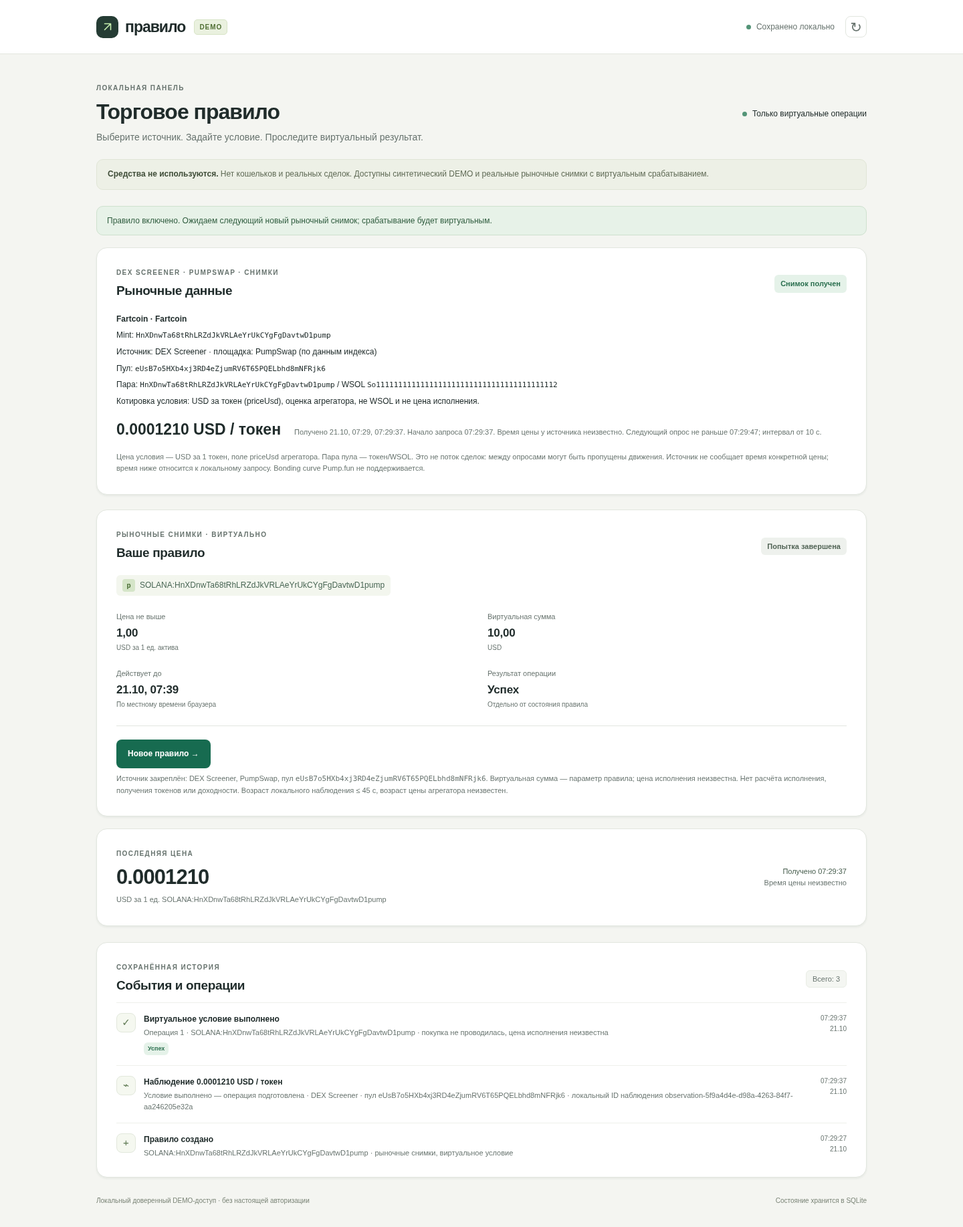
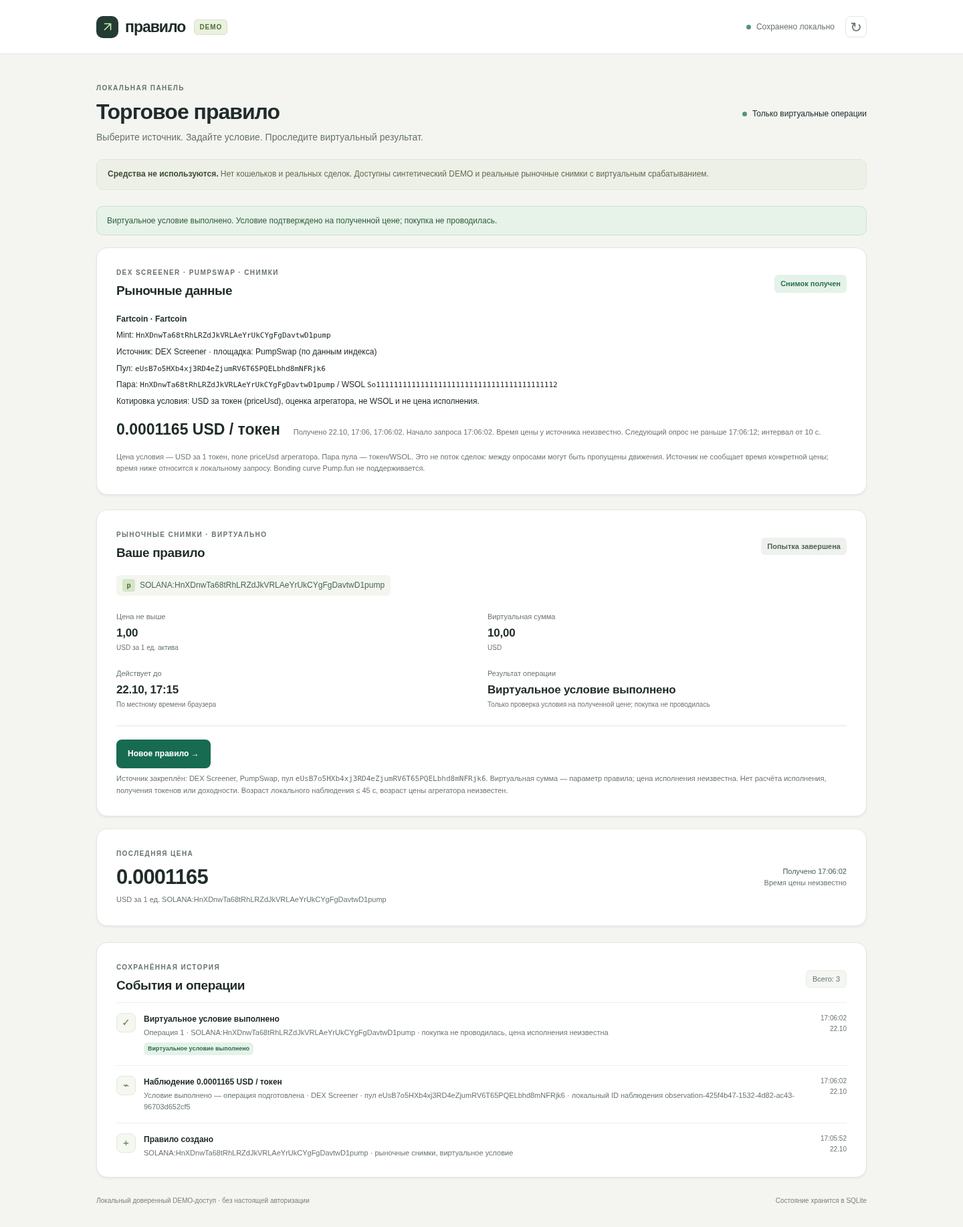
Keep market rule status consistent with virtual operation result

diff --git a/prototypes/rule-lifecycle/web/public/app.js b/prototypes/rule-lifecycle/web/public/app.js
@@ -9,7 +9,8 @@ const dispositions = { prepared: 'Условие выполнено — опер
   condition_not_met: 'Условие цены пока не выполнено', ignored_stale: 'Событие устарело и не использовано', ignored_future: 'Время события из будущего — исполнение запрещено',
   ignored_asset: 'Событие другого актива пропущено', ignored_incompatible_price: 'Размерность цены не совпадает с правилом', ignored_out_of_order: 'Более старая цена пропущена',
   ignored_history_recovery: 'История проверена; накопленный сигнал не исполняется', ignored_before_resolution: 'Цена возникла до решения владельца — сигнал пропущен' };
-let model, signature = '', busy = false, connected = false, creating = false, revision = 0;
+let model, signature = '', statusSignature = '', busy = false, connected = false, creating = false, revision = 0;
+let feedbackRuleId = null;
 let revokeTarget;
 const pendingKeys = new Map();
 const current = () => model?.rules.find(rule => rule.config.id === model.currentRuleId);
@@ -21,10 +22,32 @@ const formatFor = (rule, units) => {
 };
 const quoteFor = rule => isMarket(rule) ? 'USD' : quote;
 const terminal = rule => ['finished', 'expired', 'revoked'].includes(rule.state);
-const pill = status => `<span class="state-pill ${escape(status)}">${escape(labels[status] ?? status)}</span>`;
+const operationLabel = (rule, operation) => isMarket(rule) && operation.status === 'succeeded' ? 'Виртуальное условие выполнено' : labels[operation.status];
+const pill = (status, label = labels[status] ?? status) => `<span class="state-pill ${escape(status)}">${escape(label)}</span>`;
 const date = value => new Date(value).toLocaleString('ru-RU', { day: '2-digit', month: '2-digit', hour: '2-digit', minute: '2-digit' });
 const time = value => new Date(value).toLocaleTimeString('ru-RU', { hour: '2-digit', minute: '2-digit', second: '2-digit' });
-function feedback(text, kind = '') { $('feedback').textContent = text; $('feedback').className = `feedback ${kind}`; $('feedback').hidden = !text; }
+function feedback(text, kind = '') { feedbackRuleId = null; $('feedback').textContent = text; $('feedback').className = `feedback ${kind}`; $('feedback').hidden = !text; }
+function renderMarketRuleStatus() {
+  const rule = current();
+  if (!isMarket(rule) || creating) {
+    if (feedbackRuleId !== null) feedback('');
+    return false;
+  }
+  const operation = rule.operations.at(-1);
+  const result = operation?.status === 'succeeded' ? 'Виртуальное условие выполнено. Условие подтверждено на полученной цене; покупка не проводилась.'
+    : operation?.status === 'unknown' ? 'Исход виртуальной операции неизвестен. Повторная попытка заблокирована.'
+    : operation?.status === 'failed' ? 'Виртуальное срабатывание завершилось неудачей. Повторной попытки не будет.'
+    : operation?.status === 'submitted' ? 'Ожидаем результат виртуальной операции.'
+    : operation?.status === 'prepared' ? 'Условие выполнено; виртуальная операция подготовлена.' : '';
+  const state = rule.state === 'revoked' ? 'Правило окончательно отозвано.'
+    : rule.state === 'expired' ? 'Срок правила истёк.'
+    : rule.state === 'paused' ? 'Новые операции приостановлены.'
+    : rule.state === 'draft' ? 'Правило создано, но ещё не включено.'
+    : rule.state === 'active' && !result ? 'Правило включено. Ожидаем следующий новый рыночный снимок; срабатывание будет виртуальным.' : '';
+  feedback([state, result].filter(Boolean).join(' '), ['unknown', 'failed'].includes(operation?.status) ? 'warning' : '');
+  feedbackRuleId = rule.config.id;
+  return true;
+}
 function updateControls() {
   const rule = current();
   document.body.classList.toggle('busy', busy);
@@ -108,7 +131,7 @@ function renderRule(rule) {
     <div class="rule-grid"><div><p class="label">Цена не выше</p><p class="value">${money(config.condition.thresholdUnits)}<small>${quote} за 1 ед. актива</small></p></div>
     <div><p class="label">${marketRule ? 'Виртуальная сумма' : 'Сумма покупки'}</p><p class="value">${money(config.amountUnits)}<small>${quote}</small></p></div>
     <div><p class="label">Действует до</p><p class="value">${date(config.expiresAtMs)}<small>По местному времени браузера</small></p></div>
-    <div><p class="label">Результат операции</p><p class="value">${last ? escape(labels[last.status]) : 'Ещё нет операции'}<small>${last ? 'Отдельно от состояния правила' : 'Покупка пока не передавалась имитатору'}</small></p></div></div>
+    <div><p class="label">Результат операции</p><p class="value" id="operation-result">${last ? escape(operationLabel(rule, last)) : 'Ещё нет операции'}<small>${marketRule ? last?.status === 'succeeded' ? 'Только проверка условия на полученной цене; покупка не проводилась' : 'Отдельно от состояния правила; реальные сделки не выполняются' : last ? 'Отдельно от состояния правила' : 'Покупка пока не передавалась имитатору'}</small></p></div></div>
     ${notice}<div class="rule-actions">${buttons}</div>${marketRule ? `<p class="help">Источник закреплён: DEX Screener, PumpSwap, пул <code>${escape(config.market.pairAddress)}</code>. Виртуальная сумма — параметр правила; цена исполнения неизвестна. Нет расчёта исполнения, получения токенов или доходности. Возраст локального наблюдения ≤ 45 с, возраст цены агрегатора неизвестен.</p>` : `<details class="rule-detail"><summary>Ограничения имитации</summary><p>Общий расход ≤ ${money(config.limits.maxTotalSpendUnits)} ${quote}; комиссия ≤ ${money(config.limits.maxFeeUnits)} ${quote}; получение ≥ ${config.limits.minReceiveUnits} услов. ед. актива. Возраст события ≤ ${config.limits.maxEventAgeMs / 1000} с. Проверки локальные, не блокчейн.</p></details>`}`;
   const lastEvent = rule.events.filter(entry => entry.sourceRecord).at(-1);
   const observed = marketRule ? rule.events.filter(e => e.marketSnapshot).at(-1)?.marketSnapshot : null;
@@ -132,7 +155,7 @@ function renderJournal() {
       if (op.result?.receipt) description += ` · расход ${money(op.result.receipt.spentUnits)} ${quote}, получение ${op.result.receipt.receivedUnits} услов. ед.`;
       if (op.status === 'unknown') description += ' · повтор запрещён';
       rows.push({ at: op.updatedAtMs, rank: 2, icon: op.status === 'succeeded' ? '✓' : op.status === 'unknown' ? '?' : '→',
-        title: op.status === 'succeeded' ? marketRule ? 'Виртуальное условие выполнено' : 'Покупка имитирована' : `Операция: ${labels[op.status]}`, description: description + (marketRule ? ' · покупка не проводилась, цена исполнения неизвестна' : ''), status: op.status });
+        title: op.status === 'succeeded' ? marketRule ? 'Виртуальное условие выполнено' : 'Покупка имитирована' : `Операция: ${labels[op.status]}`, description: description + (marketRule ? ' · покупка не проводилась, цена исполнения неизвестна' : ''), status: op.status, statusLabel: operationLabel(rule, op) });
     }
     for (const entry of rule.decisions) rows.push({ at: entry.decidedAtMs, rank: 3, icon: '↻', title: entry.outcome === 'history_verified' ? 'История проверена владельцем DEMO'
       : entry.outcome === 'rule_revoked' ? 'Правило окончательно отозвано' : 'Решение по потоку сохранено',
@@ -140,7 +163,7 @@ function renderJournal() {
   }
   rows.sort((a, b) => b.at - a.at || b.rank - a.rank);
   $('journal-count').textContent = `Всего: ${rows.length}`;
-  if (rows.length) $('journal-list').innerHTML = rows.slice(0, 40).map(row => `<div class="log-row"><span class="log-icon" aria-hidden="true">${escape(row.icon)}</span><div><p class="log-title">${escape(row.title)}</p><p class="log-description">${escape(row.description)}</p>${row.status ? `<div class="log-meta">${pill(row.status)}</div>` : ''}</div><time class="log-time">${time(row.at)}<br>${date(row.at).split(',')[0]}</time></div>`).join('');
+  if (rows.length) $('journal-list').innerHTML = rows.slice(0, 40).map(row => `<div class="log-row"><span class="log-icon" aria-hidden="true">${escape(row.icon)}</span><div><p class="log-title">${escape(row.title)}</p><p class="log-description">${escape(row.description)}</p>${row.status ? `<div class="log-meta">${pill(row.status, row.statusLabel)}</div>` : ''}</div><time class="log-time">${time(row.at)}<br>${date(row.at).split(',')[0]}</time></div>`).join('');
   const archived = model.rules.filter(rule => rule.config.id !== model.currentRuleId);
   $('archive').hidden = !archived.length;
   $('archive-list').innerHTML = archived.map(rule => `<div class="archive-row"><span>${escape(rule.config.assetId)} · ${date(rule.createdAtMs)}</span>${pill(rule.state)}</div>`).join('');
@@ -156,6 +179,9 @@ function render(data, force = false) {
     $('cancel-create').hidden = !rule;
     renderRule(rule); renderJournal(); formMode(); renderMarket();
   }
+  const rule = current();
+  const nextStatus = JSON.stringify([data.currentRuleId, rule?.state, rule?.operations.map(operation => [operation.id, operation.status]), creating]);
+  if (nextStatus !== statusSignature) { statusSignature = nextStatus; renderMarketRuleStatus(); }
   updateControls();
 }
 async function load() {
@@ -167,7 +193,7 @@ async function load() {
     if (!busy && version === revision) {
       const restored = !connected && !!model;
       render(data);
-      if (restored) feedback('Соединение восстановлено. Показано сохранённое состояние.');
+      if (restored && !renderMarketRuleStatus()) feedback('Соединение восстановлено. Показано сохранённое состояние.');
     }
   } catch (error) {
     if (version === revision) { connected = false; updateControls(); feedback(error.message === 'Failed to fetch' ? 'Сервер недоступен. Показаны последние полученные данные; действия остановлены.' : error.message, 'error'); }
@@ -200,7 +226,8 @@ async function mutate(path, body, { form = null, message = '' } = {}) {
       else if (unknown) feedback('История потока проверена. Неизвестный исход операции сохраняется; повторное исполнение правила запрещено.', 'warning');
       else if (terminal(current())) feedback('История проверена, но правило уже закрыто. Включить его снова нельзя.', 'warning');
       else feedback('История проверена. Для продолжения явно включите правило и передайте новое свежее событие.');
-    } else feedback(path === '/api/market/select' && data.market.error ? 'Рыночные данные не загружены. Причина показана в карточке источника; синтетической подмены нет.' : path === '/api/market/select' && data.market.status === 'waiting' ? 'Mint выбран. Новый запрос запланирован с соблюдением интервала; ожидаем данные.' : message || 'Изменение сохранено.', data.market?.error && path === '/api/market/select' ? 'warning' : '');
+    } else if (path !== '/api/market/select' && renderMarketRuleStatus()) { /* Current persisted rule/operation state is the status message. */ }
+    else feedback(path === '/api/market/select' && data.market.error ? 'Рыночные данные не загружены. Причина показана в карточке источника; синтетической подмены нет.' : path === '/api/market/select' && data.market.status === 'waiting' ? 'Mint выбран. Новый запрос запланирован с соблюдением интервала; ожидаем данные.' : message || 'Изменение сохранено.', data.market?.error && path === '/api/market/select' ? 'warning' : '');
   } catch (error) {
     feedback(error.message === 'Failed to fetch' ? 'Связь прервалась. Исход запроса не подтверждён. Обновите состояние; повтор того же действия использует прежний ключ запроса.' : error.message, 'error');
   } finally { busy = false; updateControls(); }
@@ -217,7 +244,7 @@ $('rule-card').addEventListener('click', event => {
   if (action === 'new') { creating = true; render(model, true); clearErrors(); $('create-card').querySelector('h2').textContent = 'Новое правило'; $('data-mode').focus(); return; }
   if (action === 'revoke') { revokeTarget = { ruleId: rule.config.id, incidentId: rule.stream.continuity === 'decision_required' ? rule.stream.issue.id : undefined }; $('revoke-dialog').showModal(); return; }
   const incidentId = rule.stream.continuity === 'decision_required' ? rule.stream.issue.id : undefined;
-  mutate(`/api/rules/${rule.config.id}/${action}`, { incidentId }, { message: action === 'enable' ? isMarket(rule) ? 'Правило включено. Ожидаем следующий новый рыночный снимок; срабатывание будет виртуальным.' : 'Правило включено. Передайте тестовую цену через DEMO-пульт.'
+  mutate(`/api/rules/${rule.config.id}/${action}`, { incidentId }, { message: action === 'enable' ? 'Правило включено. Передайте тестовую цену через DEMO-пульт.'
     : action === 'pause' ? 'Новые операции приостановлены. Переданная операция не отменяется.' : 'История проверена. Для продолжения нужны явное включение и свежие данные; неизвестный исход остаётся заблокированным.' });
 });
 $('confirm-revoke').addEventListener('click', () => {

diff --git a/prototypes/rule-lifecycle/web/market-browser-check.py b/prototypes/rule-lifecycle/web/market-browser-check.py
@@ -19,6 +19,17 @@ mint = json.loads((ROOT / 'fixtures/dexscreener-pumpswap.json').read_text())[0][
 checks = []
 
 
+def assert_virtual_result(page):
+    expect(page.locator('#feedback')).to_contain_text('Виртуальное условие выполнено')
+    expect(page.locator('#feedback')).not_to_contain_text('Правило включено')
+    expect(page.locator('#feedback')).not_to_contain_text('Ожидаем следующий')
+    expect(page.locator('#operation-result')).to_contain_text('Виртуальное условие выполнено')
+    expect(page.locator('#operation-result')).to_contain_text('покупка не проводилась')
+    expect(page.locator('#operation-result')).not_to_contain_text('Успех')
+    expect(page.locator('#journal-list .state-pill.succeeded')).to_have_text('Виртуальное условие выполнено')
+    expect(page.locator('#journal-list .log-title').filter(has_text='Виртуальное условие выполнено')).to_have_count(1)
+
+
 def start(data_dir):
     command = ['node', '--use-env-proxy', str(ROOT / 'web/server.mjs')] if args.live else [
         'node', str(ROOT / 'test-support/market-browser-server.mjs'), str(data_dir)]
@@ -63,7 +74,15 @@ with tempfile.TemporaryDirectory(prefix='paper-market-browser-') as temporary:
             page.locator('#threshold').fill('1.00' if args.live else '0.0001')
             page.locator('#amount').fill('10.00')
             page.get_by_role('button', name='Создать правило', exact=False).click()
+            expect(page.locator('#feedback')).to_contain_text('Правило создано, но ещё не включено')
             page.get_by_role('button', name='Включить правило', exact=False).click()
+            expect(page.locator('#feedback')).to_contain_text('Правило включено')
+            if not args.live:
+                page.get_by_role('button', name='Приостановить', exact=True).click()
+                expect(page.locator('#feedback')).to_contain_text('Новые операции приостановлены')
+                expect(page.locator('#feedback')).not_to_contain_text('Правило включено')
+                page.get_by_role('button', name='Включить правило', exact=False).click()
+                expect(page.locator('#feedback')).to_contain_text('Правило включено')
             expect(page.locator('#demo-console')).to_be_hidden()
             if not args.live:
                 control(process, advanceMs=10_000)
@@ -79,11 +98,14 @@ with tempfile.TemporaryDirectory(prefix='paper-market-browser-') as temporary:
             expect(page.locator('#journal-list')).to_contain_text('Виртуальное условие выполнено', timeout=25_000)
             expect(page.locator('#rule-card')).to_contain_text('Попытка завершена')
             expect(page.locator('#rule-card')).to_contain_text('цена исполнения')
+            assert_virtual_result(page)
+            checks.append('current_rule_banner_and_explicit_virtual_result_after_background_trigger')
             assert page.evaluate('document.documentElement.scrollWidth <= innerWidth')
             mode = 'live' if args.live else 'fixture'
             page.screenshot(path=str(RESULTS / f'market-{mode}-desktop.png'), full_page=True)
             page.reload()
-            expect(page.locator('#journal-list').get_by_text('Виртуальное условие выполнено', exact=True)).to_have_count(1)
+            assert_virtual_result(page)
+            checks.append('reload_derives_same_completed_banner_and_operation_result')
             checks.append('ui_create_enable_new_snapshot_virtual_result_reload')
             if args.live:
                 before = page.request.get(url + '/api/state').json()
@@ -91,11 +113,11 @@ with tempfile.TemporaryDirectory(prefix='paper-market-browser-') as temporary:
                 process.wait(timeout=5)
                 process, url = start(data_dir)
                 page.goto(url)
-                expect(page.locator('#journal-list').get_by_text('Виртуальное условие выполнено', exact=True)).to_have_count(1)
+                assert_virtual_result(page)
                 after = page.request.get(url + '/api/state').json()
                 assert before['rules'][0]['operations'] == after['rules'][0]['operations']
                 expect(page.locator('#market-status')).to_have_text('Снимок получен')
-                expect(page.locator('#journal-list').get_by_text('Виртуальное условие выполнено', exact=True)).to_have_count(1)
+                assert_virtual_result(page)
                 checks.append('live_server_SIGKILL_restart_same_virtual_operation_no_repeat')
             page.set_viewport_size({'width': 390, 'height': 844})
             if not page.evaluate('document.documentElement.scrollWidth <= innerWidth'):

diff --git a/PROJECT_BRIEF.md b/PROJECT_BRIEF.md
@@ -308,3 +308,10 @@
 
 
 **Передача рыночного этапа:** после начала работы GitHub показал исходный PR №1 как MERGED (merge commit `12801554c90f3f07e699b828729d36900a220972`). Для текущих изменений подготовлена отдельная ветка **codex/pumpswap-price-snapshots** от этой актуальной main и отдельный связанный PR. Слияние исходного PR не выполнялось в рамках этой задачи; новые изменения в main самостоятельно не сливаются. Windows-инструкция обновлена на новую ветку.
+
+
+## Исправление отображения статуса — 22 октября 2026
+
+После пользовательской локальной проверки исправлена рассинхронизация: баннер хранил текст команды включения и не менялся при фоновом завершении. Теперь статус рыночного правила выводится из текущих сохранённых состояний правила и операции, включая паузу, срок, отзыв и неизвестный исход. После виртуального срабатывания баннер, результат и подпись результата в журнале показывают «Виртуальное условие выполнено» с пояснением, что покупка не проводилась. Состояние самого правила «Попытка завершена» сохраняет отдельный смысл. Обновление страницы восстанавливает те же подписи из серверного состояния.
+
+Chromium: исправление проверено отдельно с живым API и сохранённым ответом, до/после фонового срабатывания и после reload; живой сценарий также сохраняет проверку перезапуска сервера. В offline-сценарии проверены подписи включения/паузы/повторного включения. Прежний браузерный DEMO пройден; npm test — 125 passed, 0 failed, 0 skipped. Обновлены рыночные JSON-отчёты и снимки. Исправление передаётся в существующий PR №2; ядро, хранение, источник, торговое исполнение и прежние эксперименты не менялись.

diff --git a/prototypes/rule-lifecycle/VALIDATION.md b/prototypes/rule-lifecycle/VALIDATION.md
@@ -26,3 +26,8 @@ Cloud-preview, установка/запуск на Windows/WSL конкретн
 - **Сохранённый DEMO:** прежний web/browser-check.py повторно пройден с новым интерфейсом; отчёт web-browser.json и его снимки обновлены.
 
 Поддержка PumpSwap основана на ярлыках и данных DEX Screener, а не на локальном исполнении финансовых программ или onchain-верификации пула. Снимки не доказывают полноту потока, возраст цены у агрегатора, выгодность/достижимость цены или реальную покупку. Не проверены bonding curve Pump.fun, другие DEX, реальный поток Solana, Windows пользователя и внешний Cloud-preview. [Контракт и запуск](web/MARKET_DATA.md).
+
+
+## Регрессия статуса — 22 октября 2026
+
+`market-browser-check.py` теперь проверяет баннер по текущему состоянию: создание → включение → пауза/включение (offline) → фоновое срабатывание → «Виртуальное условие выполнено» → обновление страницы с тем же результатом. В карточке и журнале рыночного режима нет неоднозначного «Успех». Проверки пройдены как с сохранённым ответом, так и отдельно с живым API; live-сценарий сохраняет проверку SIGKILL/нового сервера. Рыночные отчёты и снимки выше обновлены. Старый DEMO-браузерный сценарий и все 125 npm-тестов также пройдены. Изменена только логика отображения; ядро/источник/исполнение не менялись.
